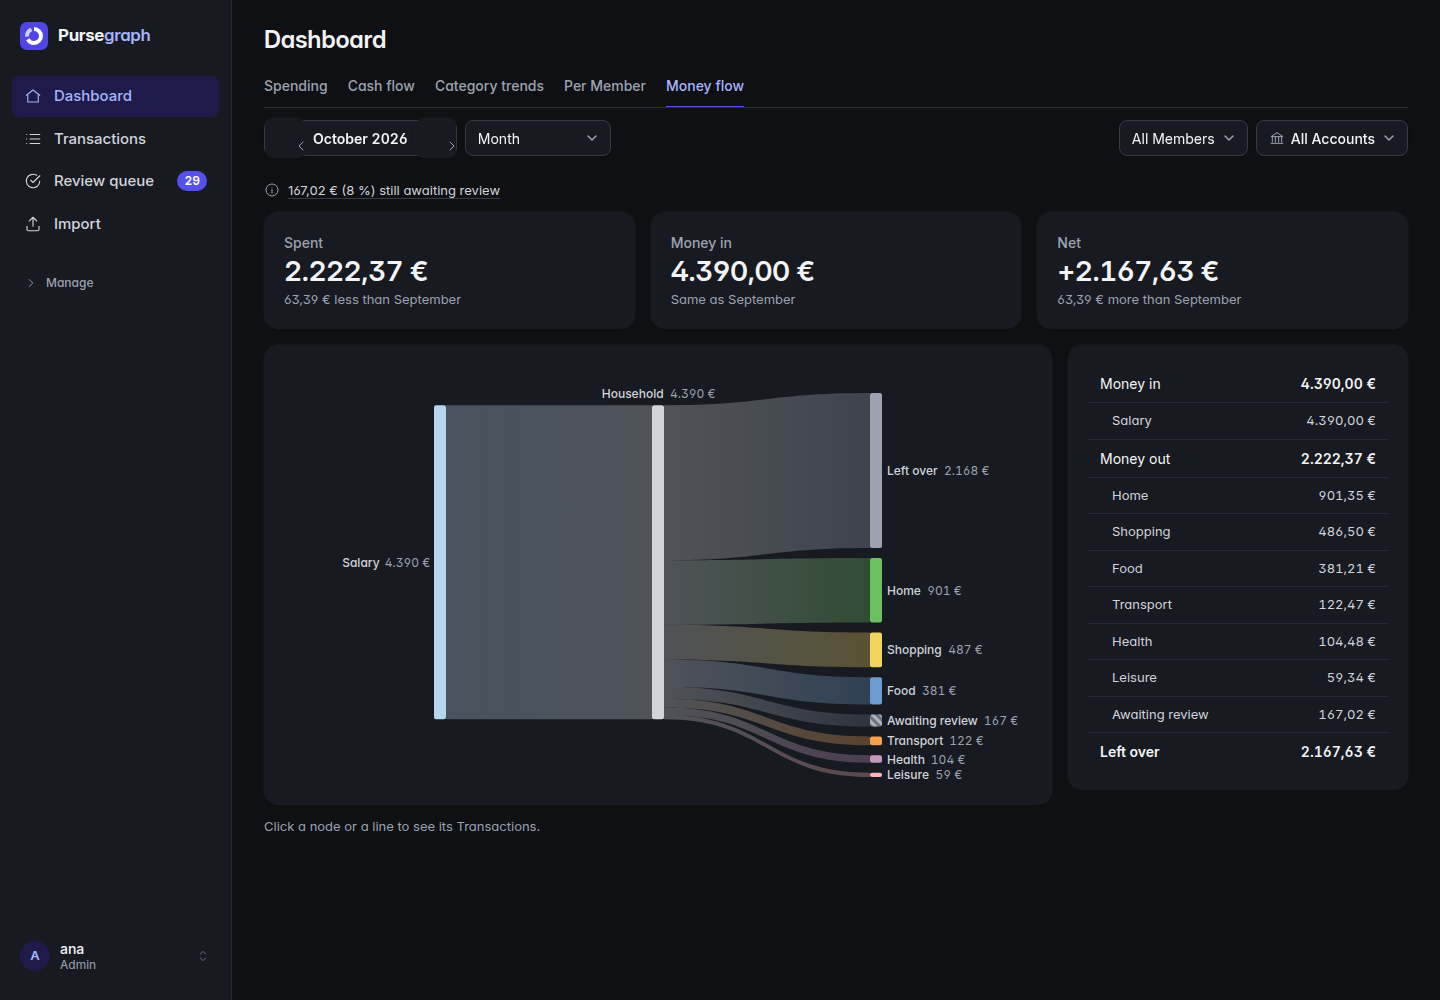
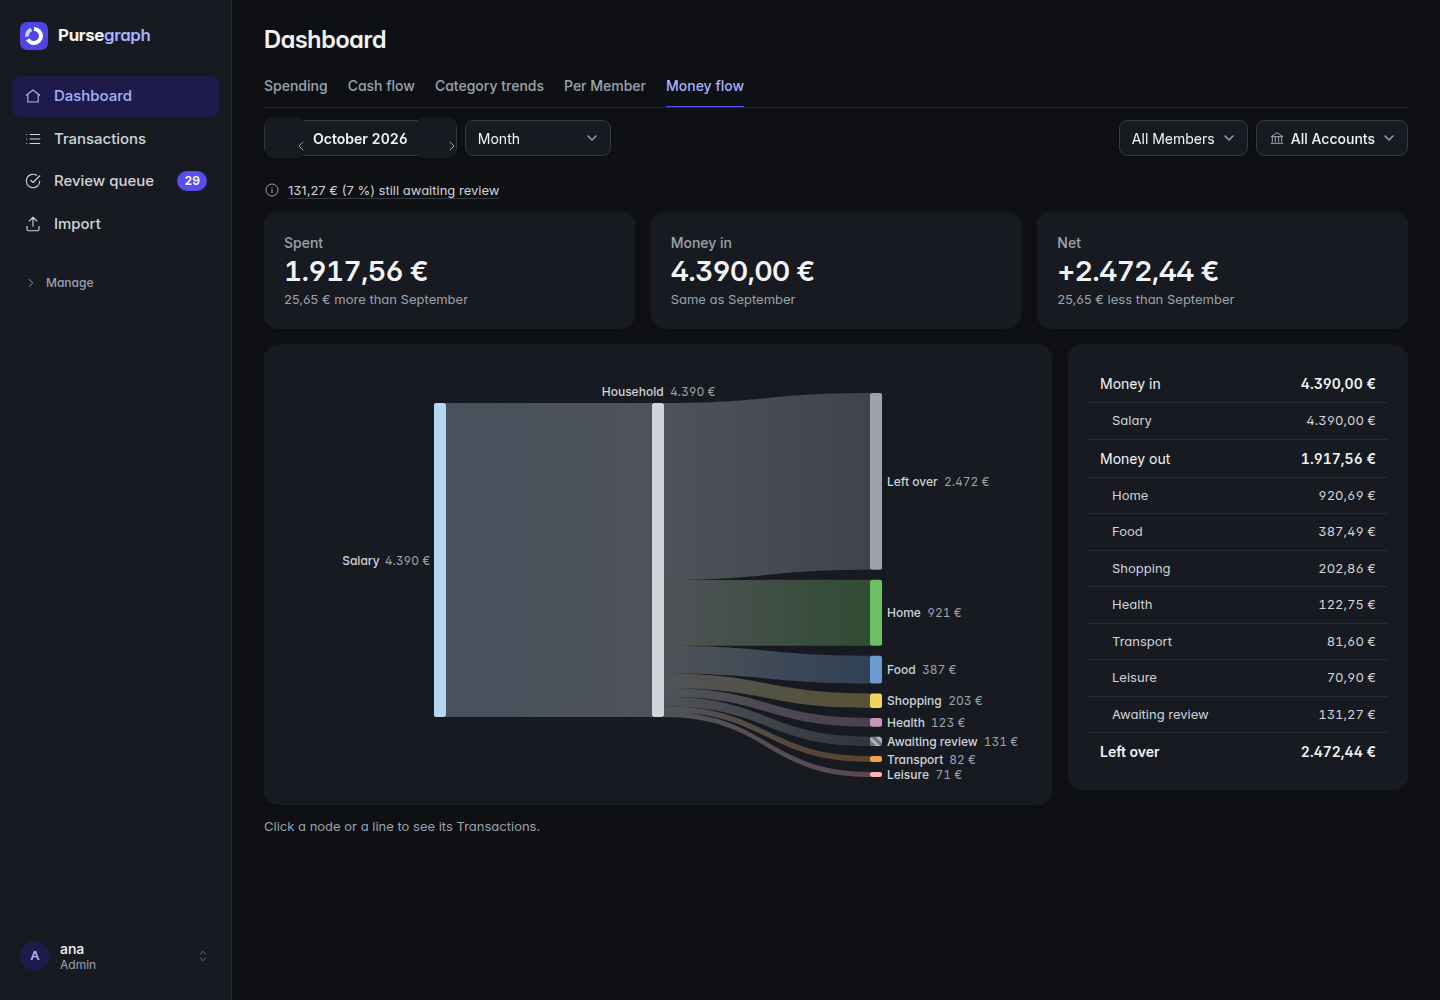
Review fixes for the demo dataset (#58)
Rules take their Transactions through Rule.condition() instead of a
copy of its matching, all from the same month, the N26 salary Rule
included. IBANs have a bank code of zeros so none can be a real account.
Clearer names, and the month loop reuses month_start. Shots retaken.

diff --git a/ledger/management/commands/seed_demo.py b/ledger/management/commands/seed_demo.py
@@ -104,7 +104,7 @@ MERCHANTS = [
     ], (6, 45)),
 ]  # fmt: skip
 CARD_PAYMENTS = 22  # a month, across the three Accounts
-# Every month: the day, the Account (by owner), the description, the counterparty, the amount's range
+# Every month: the day, the Account ("ana", "luka" or "joint"), the description, the counterparty, the amount's range
 # and the Subcategory.
 FIXED = [
     (1, "joint", "Najemnina stanovanje", "Marko Novak", (850, 850), ("Home", "Rent / mortgage")),
@@ -173,12 +173,12 @@ class Command(BaseCommand):
         savings = Account.objects.create(name="Ana's savings", bank=Bank.OTHER)
         savings.owners.add(ana)
         accounts = {"ana": sparkasse, "luka": n26, "joint": joint}
-        # Fictional, with valid check digits.
+        # Fictional: valid check digits, but a bank code of zeros, so none is anyone's real account.
         iban = {
-            sparkasse: "SI02194000012345678",
-            n26: "DE60100110012627182818",
-            joint: "LT833250000314159265",
-            savings: "SI41194000087654321",
+            sparkasse: "SI02000000012345678",
+            n26: "DE79000000001234567890",
+            joint: "LT590000001234567890",
+            savings: "SI41000000087654321",
         }
         for account, number in iban.items():
             AccountIBAN.objects.create(account=account, iban=number)
@@ -232,27 +232,12 @@ class Command(BaseCommand):
         def subcategory(category, name):
             return Subcategory.objects.get(category__name=category, name=name)
 
-        rules = [
-            Rule.objects.create(
-                description_contains=contains, subcategory=subcategory(*outcome), position=position
-            )
-            for position, (contains, outcome) in enumerate(RULES)
-        ]
         salary = subcategory("Income", "Salary")
-        salary_rule = Rule.objects.create(
-            direction=Rule.Direction.IN, account=n26, position=len(rules), subcategory=salary
-        )
 
-        def spend(account, day, low, high, description, counterparty, outcome, back):
-            """A payment out, by the first Rule that matches it once the Rules existed, else by hand or the
-            LLM."""
+        def spend(account, day, low, high, description, counterparty, outcome):
+            """A payment out, categorized by hand or by the LLM; the Rules take theirs at the end."""
             amount = -Decimal(rng.randint(round(low * 100), round(high * 100))) / 100
-            matching = next(
-                (r for r in rules if r.description_contains.lower() in description.lower()), None
-            )
-            if matching and back < MONTHS - 1:
-                how = {"source": Source.RULE, "rule": matching}
-            elif rng.random() < 0.5:
+            if rng.random() < 0.5:
                 confidence = rng.randint(90, 99) / 100
                 how = {
                     "source": Source.LLM,
@@ -271,22 +256,23 @@ class Command(BaseCommand):
                 **how,
             )
 
-        def side(account, other, day, amount, name):
-            """One side of a Transfer between `account` and `other`, a Transfer by its IBAN, not yet paired."""
+        def side(account, other, day, amount, counterparty):
+            """One side of a Transfer between `account` and `other`, a Transfer by its IBAN, not yet paired.
+            The paying side names the Account paid into; the paid one, as banks do, the person who paid."""
             book(
                 account,
                 day,
                 amount,
-                f"Transfer to {other.name}" if amount < 0 else f"Transfer from {name}",
-                counterparty_name=name,
+                f"Transfer to {other.name}" if amount < 0 else f"Transfer from {counterparty}",
+                counterparty_name=counterparty,
                 counterparty_iban=iban[other],
                 is_transfer=True,
                 source=Source.IBAN,
             )
 
-        def transfer(source, to, day, amount, name):
-            side(source, to, day, -amount, name)
-            side(to, source, day, amount, name)
+        def transfer(payer, payee, day, amount, counterparty):
+            side(payer, payee, day, -amount, counterparty)
+            side(payee, payer, day, amount, counterparty)
 
         def suggestion(suggested):
             if not suggested:
@@ -300,32 +286,22 @@ class Command(BaseCommand):
         waiting = count()
 
         for back in range(MONTHS, -1, -1):
-            year, month = divmod(today.year * 12 + today.month - 1 - back, 12)
-            month += 1
+            start = month_start(back)
             # The running month only up to today.
             last_day = today.day if back == 0 else 28
 
-            def on(day, year=year, month=month):
-                return date(year, month, day)
+            def on(day, start=start):
+                return start.replace(day=day)
 
-            for (day, owner, description, counterparty, (low, high), _), outcome in zip(
+            for (day, whose, description, counterparty, (low, high), _), outcome in zip(
                 FIXED, fixed, strict=True
             ):
                 if day <= last_day:
-                    spend(
-                        accounts[owner],
-                        on(day),
-                        low,
-                        high,
-                        description,
-                        counterparty,
-                        outcome,
-                        back,
-                    )
+                    spend(accounts[whose], on(day), low, high, description, counterparty, outcome)
             if last_day >= 15:
-                for account, amount, employer, rule in (
-                    (sparkasse, "2410.00", "Kres Engineering d.o.o.", None),
-                    (n26, "1980.00", "Lipa Software d.o.o.", salary_rule),
+                for account, amount, employer in (
+                    (sparkasse, "2410.00", "Kres Engineering d.o.o."),
+                    (n26, "1980.00", "Lipa Software d.o.o."),
                 ):
                     book(
                         account,
@@ -334,19 +310,18 @@ class Command(BaseCommand):
                         "Salary",
                         counterparty_name=employer,
                         subcategory=salary,
-                        source=Source.RULE if rule else Source.MANUAL,
-                        rule=rule,
+                        source=Source.MANUAL,
                     )
             if last_day >= 16:
                 # Each pays into the Joint Revolut the day after payday; pairing links the two sides.
-                for account, owner, amount in (
+                for account, member, amount in (
                     (sparkasse, "Ana Zupan", "900.00"),
                     (n26, "Luka Zupan", "700.00"),
                 ):
-                    transfer(account, joint, on(16), Decimal(amount), owner)
+                    transfer(account, joint, on(16), Decimal(amount), member)
             if last_day >= 17:
                 side(sparkasse, savings, on(17), Decimal("-300.00"), "Ana Zupan")
-            for _i in range(CARD_PAYMENTS):
+            for _payment in range(CARD_PAYMENTS):
                 [i] = rng.choices(range(len(MERCHANTS)), weights)
                 _, _, names, (low, high) = MERCHANTS[i]
                 description, counterparty = rng.choice(names)
@@ -358,7 +333,6 @@ class Command(BaseCommand):
                     description,
                     counterparty,
                     merchants[i],
-                    back,
                 )
             if back in REFUNDS:
                 day, description, counterparty, amount, outcome = REFUNDS[back]
@@ -395,10 +369,25 @@ class Command(BaseCommand):
 
         # An ambiguous pairing: Ana's two equal payments into the Joint Revolut, two days either side of the
         # one it shows, so pairing can't tell which is its other side.
-        recent = Decimal("150.00")
-        side(joint, sparkasse, today - timedelta(days=4), recent, "Ana Zupan")
+        top_up = Decimal("150.00")
+        side(joint, sparkasse, today - timedelta(days=4), top_up, "Ana Zupan")
         for days in (6, 2):
-            side(sparkasse, joint, today - timedelta(days=days), -recent, "Ana Zupan")
+            side(sparkasse, joint, today - timedelta(days=days), -top_up, "Ana Zupan")
         pair(Transaction.objects.filter(is_transfer=True))
+
+        # The Rules, top first. Made a month into the demo, each categorized what it matches from then on, where
+        # a Member would have chosen the same; what came before keeps the outcome a Member or the LLM gave it.
+        made = month_start(MONTHS - 1)
+        rules = [
+            Rule(description_contains=contains, subcategory=subcategory(*outcome))
+            for contains, outcome in RULES
+        ]
+        rules.append(Rule(direction=Rule.Direction.IN, account=n26, subcategory=salary))
+        for position, rule in enumerate(rules):
+            rule.position = position
+            rule.save()
+            Transaction.objects.filter(
+                rule.condition(), subcategory=rule.subcategory, rule=None, date__gte=made
+            ).update(source=Source.RULE, rule=rule, suggested_subcategory=None, confidence=None)
 
         self.stdout.write(f"Seeded the demo Household: {Transaction.objects.count()} Transactions.")
